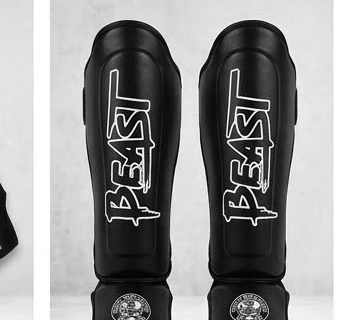
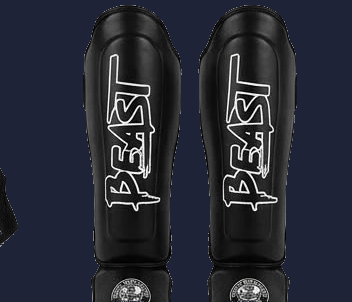
Merch: branded product images + styled dark card backgrounds
- Remove grey studio background from all 4 product photos via
  edge-connected flood fill, replace with branded dark bg per product:
  Gloves=deep red-black, Shin Pads=navy, Shorts=near-black-blue, Wraps=dark gold
- CSS: object-fit:contain + per-product accent gradient backgrounds
- Each card gets individual class (merch-card-gloves etc.)

diff --git a/style.css b/style.css
@@ -1626,13 +1626,29 @@ section{padding:6rem 0}
   overflow:hidden;
   position:relative;
 }
-.merch-photo-sm .merch-real-img{min-height:220px}
+/* Product images — dark canvas so product pops */
+.merch-photo-sm{
+  min-height:240px;
+  background:linear-gradient(155deg,#111 0%,#1a1a1a 100%);
+}
+.merch-photo-sm .merch-real-img{
+  width:100%;height:100%;min-height:240px;
+  object-fit:contain;
+  padding:12px;
+  display:block;
+  filter:contrast(1.05) brightness(0.95);
+}
 .merch-real-img{
   width:100%;height:100%;
   object-fit:cover;
   display:block;
   min-height:320px;
 }
+/* Individual card accent colours — mid-tone so multiply removes grey bg */
+.merch-card-gloves   .merch-photo-sm{background:linear-gradient(155deg,#c0392b 0%,#7a1a10 100%)}
+.merch-card-shinpads .merch-photo-sm{background:linear-gradient(155deg,#1a2a4a 0%,#0d1a30 100%)}
+.merch-card-shorts   .merch-photo-sm{background:linear-gradient(155deg,#1a1a2e 0%,#0d0d1c 100%)}
+.merch-card-wraps    .merch-photo-sm{background:linear-gradient(155deg,#f0a500 0%,#8a5f00 100%)}
 .merch-photo-tees      {background:linear-gradient(135deg,#1a0a0a,#0d0404)}
 .merch-photo-rashguards{background:linear-gradient(135deg,#0a0a1a,#04040d)}
 .merch-photo-shorts    {background:linear-gradient(135deg,#0a140a,#040904)}

diff --git a/index.html b/index.html
@@ -1081,7 +1081,7 @@
 
     <div class="merch-grid merch-grid-3">
 
-      <div class="merch-card">
+      <div class="merch-card merch-card-gloves">
         <div class="merch-photo merch-photo-sm">
           <img src="merch-gloves-hq.png" alt="Boxing Gloves" class="merch-real-img">
         </div>
@@ -1095,7 +1095,7 @@
         </div>
       </div>
 
-      <div class="merch-card">
+      <div class="merch-card merch-card-shinpads">
         <div class="merch-photo merch-photo-sm">
           <img src="merch-shinpads-hq.png" alt="Shin Pads" class="merch-real-img">
         </div>
@@ -1109,7 +1109,7 @@
         </div>
       </div>
 
-      <div class="merch-card">
+      <div class="merch-card merch-card-shorts">
         <div class="merch-photo merch-photo-sm">
           <img src="merch-shorts-hq.png" alt="Muay Thai Shorts" class="merch-real-img">
           <span class="merch-badge merch-badge-sale">Sale</span>
@@ -1124,7 +1124,7 @@
         </div>
       </div>
 
-      <div class="merch-card">
+      <div class="merch-card merch-card-wraps">
         <div class="merch-photo merch-photo-sm">
           <img src="merch-wraps-hq.png" alt="Hand Wraps" class="merch-real-img">
         </div>
